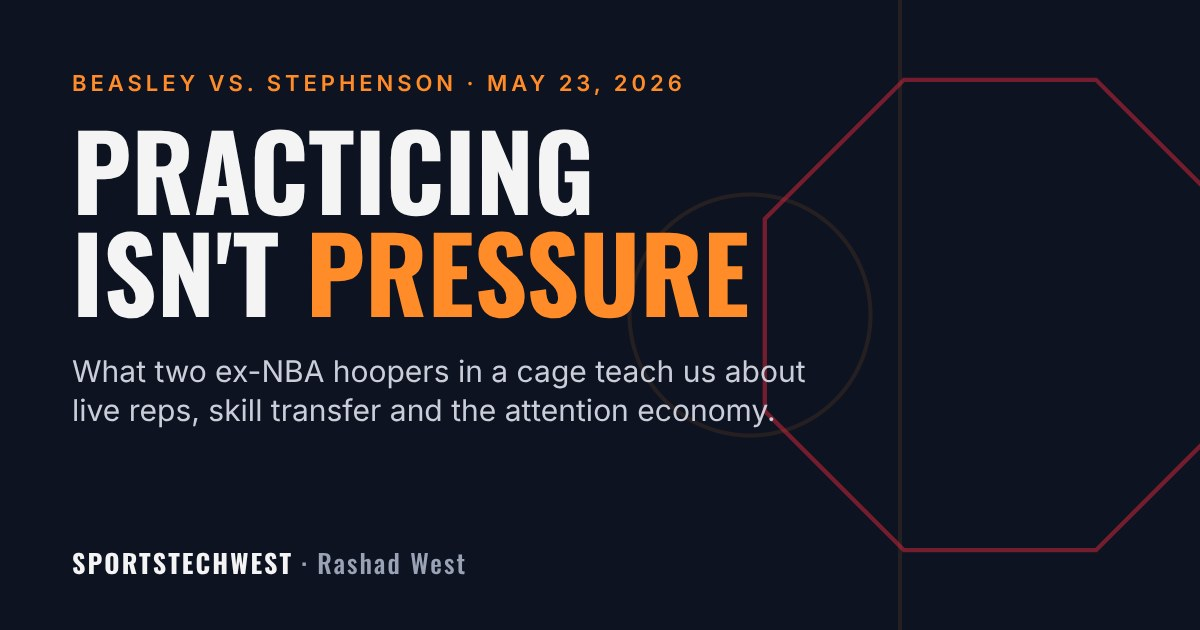
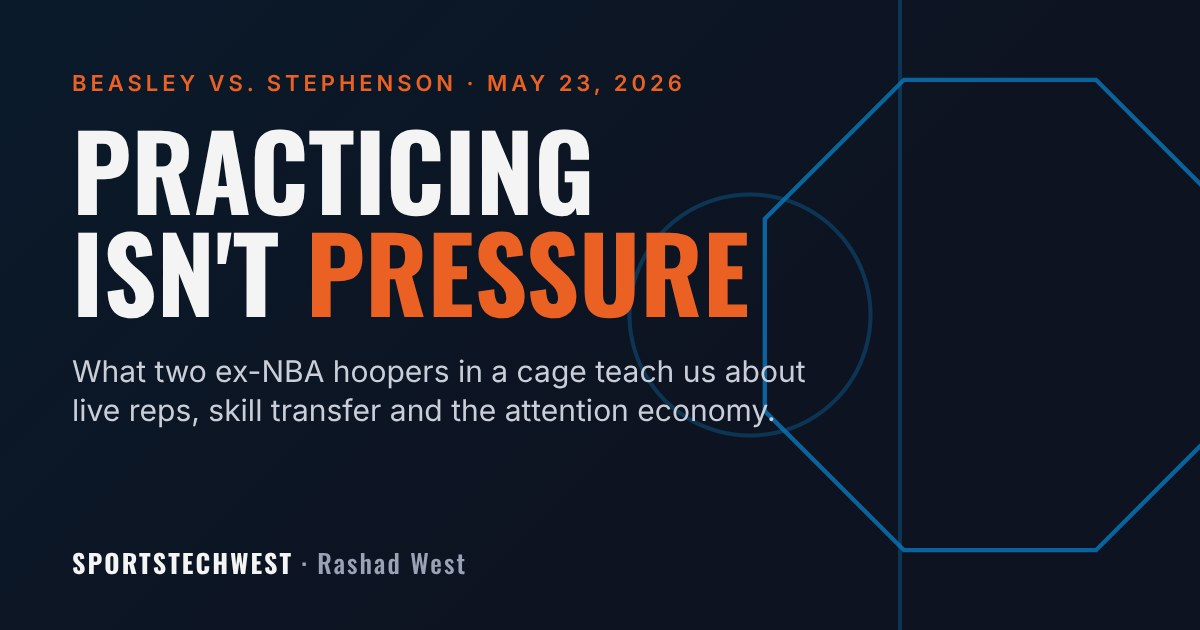
Run Thanos review on the Beasley vs. Stephenson post
AIMCODE: add six verified peer-reviewed citations woven into the
lessons, a new section on pressure and choking, and a measurable
Pressure Gap drill (Practice % minus Pressure %).
Garvis: inline hero with alt text, hero recolored to brand blue and
orange, validator and markdown render checks pass.
Launch: add a launch kit with LinkedIn, X, Instagram and newsletter
copy plus a posting plan (workflows/ is excluded from the site).

Claude-Session: https://claude.ai/code/session_01JRezRmpN3p3mQmtARAPsCa

diff --git a/_posts/2026-11-09-Practicing-Is-Not-Pressure-Beasley-vs-Stephenson.md b/_posts/2026-11-09-Practicing-Is-Not-Pressure-Beasley-vs-Stephenson.md
@@ -1,17 +1,21 @@
 ---
 layout: post
 title: "Practicing Isn't Pressure: What Beasley vs. Stephenson Taught Me About Live Reps"
-description: "Lance Stephenson submitted Michael Beasley inside the first round of their May 2026 MMA fight. Strip away the spectacle and it is a lesson on skill transfer, live reps, and why ex-NBA players are chasing the attention economy."
+description: "Lance Stephenson submitted Michael Beasley in the first round of their May 2026 MMA fight. Strip away the spectacle and the research tells a clear story about live reps, skill transfer, and the attention economy."
 permalink: /blog/practicing-is-not-pressure-beasley-vs-stephenson/
 thumbnail: "/assets/images/blog-img/beasley-stephenson-practice-pressure-hero.jpg"
 badge_color: "text-bg-primary"
 trending: true
 simple_nav: true
 date: 2026-11-09
-tags: [basketball, NBA, MMA, BIG3, player-development, creator-economy, sportstechwest]
+tags: [basketball, NBA, MMA, BIG3, player-development, sport-science, creator-economy, sportstechwest]
 categories: [Insights]
 author: "Rashad West"
 ---
+
+<div class="text-center my-4">
+  <img src="/assets/images/blog-img/beasley-stephenson-practice-pressure-hero.jpg" alt="Practicing isn't pressure: what Michael Beasley vs. Lance Stephenson teaches about live reps, skill transfer and the attention economy" class="img-fluid" width="1200" height="630">
+</div>
 
 ## Two Hoopers Walk Into a Cage
 
@@ -25,7 +29,7 @@ Afterward, Beasley gave the most honest postgame quote I have heard all year:
 
 And Stephenson gave the most Lance quote possible, pointing back to their basketball history: [*"You can beat me in 1v1, but you wanna fight me?"*](https://x.com/Ballislife/status/2058512397984211428)
 
-Most people watched it as a meme. I watched it as a coach and a data guy. That one Beasley line is a whole player development philosophy.
+Most people watched it as a meme. I watched it as a coach and a data guy. That one Beasley line is a whole player development philosophy, and the sport science backs him up.
 
 ---
 
@@ -34,6 +38,8 @@ Most people watched it as a meme. I watched it as a coach and a data guy. That o
 Beasley was not lying about training. He said he had practiced defending chokes. The problem is that a drill and a fight produce two different kinds of information.
 
 In a drill, your partner gives you the look. In a fight, someone is actively trying to take the thing you are trying to protect. Same technique on paper, completely different decision under load: heart rate up, adrenaline dumping, a real opponent reading *you*.
+
+Researchers have a name for this. **Representative learning design** says practice only transfers to performance when the practice environment keeps the key information and pressures of the real competition (Pinder, Davids, Renshaw & Araújo, 2011). Take away the live opponent and you are training a different skill than the one you will need.
 
 Basketball has the exact same gap:
 
@@ -46,33 +52,45 @@ Basketball has the exact same gap:
 
 I wrote about this in [Measurement Does Not Mean Understanding](/blog/Measurement-Does-Not-Mean-Understanding-Part-1/). A number collected in a sterile environment can be accurate and still tell you almost nothing about performance under pressure. The rep count was real. The context was missing.
 
-**The takeaway for coaches:** if you want a skill to hold up in games, a meaningful share of the reps have to come against live, thinking resistance. Constraint-based drills, small-sided games, advantage/disadvantage situations. Make the practice environment ask the same questions the game will ask.
+---
+
+## Lesson 2: Pressure Changes How Skill Works
+
+Here is the part most people miss. Pressure does not just add nerves on top of a skill. It can change how the skill runs.
+
+Beilock and Carr (2001) studied why skilled performers choke. Well-learned skills run mostly on autopilot. Under pressure, people start consciously monitoring each step, and that step-by-step attention can break down a skill that normally runs smoothly. That is what "thinking too much" actually means.
+
+The good news: pressure can be trained. Oudejans and Pijpers (2009) found that skilled athletes who practiced under anxiety-inducing conditions held up better under pressure than those who practiced without it. You do not get comfortable with pressure by avoiding it until game day. You get comfortable by bringing small doses of it into practice.
+
+Beasley's line is the athlete's version of that research. Practicing a defense against a cooperative partner is not the same as defending it while your body is screaming at you.
 
 ---
 
-## Lesson 2: Athleticism Transfers. Skill Does Not.
+## Lesson 3: Athleticism Transfers. Skill Does Not.
 
 Beasley was the No. 2 pick in the 2008 draft. Stephenson built a career on strength, toughness, and getting under people's skin. Both are elite athletes by any normal standard.
 
 None of that decided the fight. Position did.
 
-That is the part people miss when they say a great athlete can "just pick up" another sport. Raw athletic traits (speed, power, body control) carry over. Sport-specific skill (where your hips go when someone is on your back, how to clear a grip) does not carry over at all. It has to be built from scratch, and it has to be built under resistance.
+That is the part people miss when they say a great athlete can "just pick up" another sport. Research on motor learning shows that transfer between sports depends on how similar the tasks are: the movements, what you have to see, and the decisions you have to make (Rosalie & Müller, 2012). Speed, power and body control carry over. Where your hips go when someone is on your back does not. It has to be built from scratch, under resistance.
 
-Even Beasley's game plan showed a basketball brain at work. Going for the guillotine was the aggressive, "take the shot" option. In grappling, that same choice gave up his position the moment it failed. On the court, a missed shot means you get back on defense. In the cage, a missed submission means your opponent is on your back.
+Even Beasley's choice showed a basketball brain at work. Going for the guillotine was the aggressive, "take the shot" option. On the court, a missed shot means you get back on defense. In the cage, a missed submission means your opponent is on your back.
 
-This matters for youth sports too. Multi-sport kids build a better athletic base, and that is real. But we should be honest that every new sport resets the skill clock. The base gets you to the starting line faster. It does not skip the reps.
+This matters for youth sports too. Sampling several sports in childhood is linked to longer participation and a strong base for elite performance later (Côté, Lidor & Hackfort, 2009). That is real. But every new sport still resets the skill clock. The base gets you to the starting line faster. It does not skip the reps.
 
 ---
 
-## Lesson 3: The Name of the Promotion Was the Point
+## Lesson 4: The Name of the Promotion Was the Point
 
 The event series is literally called **Brand Risk**. That is not an accident. It is the business model.
 
 Ex-NBA players have something the creator economy wants: name recognition, built-in fan bases, and decades of highlight clips. Streaming promotions have something those players want: a live audience, a payday, and a reason to trend again. A one-minute fight between two former pros generates more clips, reactions, and debate than most full BIG3 games.
 
+Sport management research has been pointing at this for years. An athlete's brand is not only athletic performance. It also includes how they look and how they live off the court, and those pieces carry value of their own (Arai, Ko & Ross, 2014). Fighting on a stream is a bet on the off-court side of the brand.
+
 The price is the "risk" part. You are trading your athletic reputation for attention, live, with no edit button. Beasley lost the fight, but the clip still did numbers, and he immediately pitched a boxing rematch. In the attention economy, losing on camera is often still a win on the spreadsheet.
 
-That is the same tension I wrote about in [Where Does the Value Actually Live?](/blog/Where-Does-the-Value-Actually-Live-Part-2/): the value of an athlete is no longer just what happens between the lines. It is the story, the audience, and the moment. Former players who understand that are building second careers. The ones who do not understand it are just providing content for someone else's platform.
+That is the same tension I wrote about in [Where Does the Value Actually Live?](/blog/Where-Does-the-Value-Actually-Live-Part-2/): the value of an athlete is no longer just what happens between the lines. Former players who understand that are building second careers. The ones who do not are just providing content for someone else's platform.
 
 ---
 
@@ -86,14 +104,43 @@ So the same two players went from fighting each other for a promotion that sells
 
 ---
 
+## Try It This Week: Measure Your Pressure Gap
+
+This is where basketball becomes math. Pick one skill and measure it two ways:
+
+1. **Practice number:** 20 free throws at the start of practice, fresh and quiet. Write down the makes.
+2. **Pressure number:** 20 free throws after a hard conditioning block, one at a time, with a consequence on every miss (the team runs, or you lose a point in a scrimmage). Write down the makes.
+
+Then do the math:
+
+**Pressure Gap = Practice % − Pressure %**
+
+If you make 16 of 20 in practice (80%) and 12 of 20 under pressure (60%), your Pressure Gap is 20 points. That number is more useful than either percentage on its own. It tells you how much of your skill survives when it matters.
+
+Run it once a week for a month. If the gap is shrinking, your practice is starting to look like the game. If it is not, add more live resistance to your practice, not more reps of the same drill.
+
+---
+
 ## What I Am Taking From It
 
 1. **Train against live resistance.** Your drill numbers are the floor, not the forecast.
-2. **Respect the skill clock.** Athleticism buys speed of learning, not a shortcut past the reps.
-3. **Know which game you are playing.** The attention economy rewards things the scoreboard punishes. Be intentional about which one you are building for.
+2. **Bring pressure into practice.** Small doses now beat a big dose on game day.
+3. **Respect the skill clock.** Athleticism buys speed of learning, not a shortcut past the reps.
+4. **Know which game you are playing.** The attention economy rewards things the scoreboard punishes. Be intentional about which one you are building for.
 
 Beasley said it better than any coaching clinic could. Practicing getting choked and getting choked ain't the same. Build your practice so the game never feels like the first time.
 
 ---
 
-*Sources: [Tapology](https://www.tapology.com/fightcenter/bouts/1136143-brandrisk-promotions-14-michael-beasley-vs-lance-stephenson), [Bloody Elbow](https://bloodyelbow.com/2026/05/24/michael-beasley-vs-lance-stephenson-fight-result-brand-risk-promotions-mma-fight-ends-in-shock-submission/), [Yahoo Sports](https://sports.yahoo.com/articles/brand-risk-14-live-blog-070440618.html), [ClutchPoints](https://clutchpoints.com/nba/lance-stephenson-choking-out-michael-beasley-in-mma-fight-is-craziest-thing-youll-see-today), [Larry Brown Sports](https://larrybrownsports.com/basketball/lance-stephenson-michael-beasley-suspended-big3/759023), [BIG3](https://x.com/thebig3/status/2068462888789193082).*
+## Research
+
+- Arai, A., Ko, Y. J., & Ross, S. (2014). Branding athletes: Exploration and conceptualization of athlete brand image. *Sport Management Review, 17*(2), 97–106. [doi:10.1016/j.smr.2013.04.003](https://doi.org/10.1016/j.smr.2013.04.003)
+- Beilock, S. L., & Carr, T. H. (2001). On the fragility of skilled performance: What governs choking under pressure? *Journal of Experimental Psychology: General, 130*(4), 701–725.
+- Côté, J., Lidor, R., & Hackfort, D. (2009). ISSP position stand: To sample or to specialize? Seven postulates about youth sport activities that lead to continued participation and elite performance. *International Journal of Sport and Exercise Psychology, 7*(1), 7–17.
+- Oudejans, R. R. D., & Pijpers, J. R. (2009). Training with anxiety has a positive effect on expert perceptual-motor performance under pressure. *Quarterly Journal of Experimental Psychology, 62*(8), 1631–1647.
+- Pinder, R. A., Davids, K., Renshaw, I., & Araújo, D. (2011). Representative learning design and functionality of research and practice in sport. *Journal of Sport & Exercise Psychology, 33*(1), 146–155. [doi:10.1123/jsep.33.1.146](https://doi.org/10.1123/jsep.33.1.146)
+- Rosalie, S. M., & Müller, S. (2012). A model for the transfer of perceptual-motor skill learning in human behaviors. *Research Quarterly for Exercise and Sport, 83*(3), 413–421.
+
+## News Sources
+
+[Tapology](https://www.tapology.com/fightcenter/bouts/1136143-brandrisk-promotions-14-michael-beasley-vs-lance-stephenson), [Bloody Elbow](https://bloodyelbow.com/2026/05/24/michael-beasley-vs-lance-stephenson-fight-result-brand-risk-promotions-mma-fight-ends-in-shock-submission/), [Yahoo Sports](https://sports.yahoo.com/articles/brand-risk-14-live-blog-070440618.html), [ClutchPoints](https://clutchpoints.com/nba/lance-stephenson-choking-out-michael-beasley-in-mma-fight-is-craziest-thing-youll-see-today), [Larry Brown Sports](https://larrybrownsports.com/basketball/lance-stephenson-michael-beasley-suspended-big3/759023), [BIG3](https://x.com/thebig3/status/2068462888789193082).

diff --git a/workflows/blog-launch/2026-11-09-beasley-stephenson-launch-kit.md b/workflows/blog-launch/2026-11-09-beasley-stephenson-launch-kit.md
@@ -1,0 +1,107 @@
+# Launch Kit: "Practicing Isn't Pressure" (Beasley vs. Stephenson)
+
+**Post:** `_posts/2026-11-09-Practicing-Is-Not-Pressure-Beasley-vs-Stephenson.md`
+**Live URL (after merge to main):** https://sportstechwest.com/blog/practicing-is-not-pressure-beasley-vs-stephenson/
+**Hero / social image:** `assets/images/blog-img/beasley-stephenson-practice-pressure-hero.jpg` (1200x630, works as the OG image)
+
+---
+
+## Thanos Review (AIMCODE + Garvis + Launch)
+
+### @AIMCODE: content quality
+
+| Check | Status | Notes |
+|---|---|---|
+| **C** Clarity | Pass | One clear thesis: practice reps and pressure reps are different data. |
+| **L** Logic | Pass | Story > 4 lessons > epilogue > drill > takeaways. Each lesson builds on the last (Alpha Evolve layering). |
+| **E** Examples | Pass | The fight itself, practice-vs-game table, BIG3 epilogue, worked Pressure Gap example. |
+| **A** Adaptation | Pass | Lessons apply to coaches, players, youth/multi-sport parents, and athletes building a brand. |
+| **R** Results | Pass | "Pressure Gap" drill gives a measurable weekly number to track. |
+| Peer-reviewed research | Pass | 6 peer-reviewed citations, verified by search (Pinder et al. 2011; Beilock & Carr 2001; Oudejans & Pijpers 2009; Rosalie & Müller 2012; Côté et al. 2009; Arai et al. 2014). |
+| Zhang (story-first) | Pass | Opens on the fight, not on theory. |
+| Drazan (basketball as math) | Pass | Pressure Gap = Practice % − Pressure %, with a worked example. |
+| Resnick (build something) | Pass | Reader runs their own drill and collects their own data. |
+| Jobs (simple) | Pass | Short sections, one table, one formula, four takeaways. |
+
+### @Garvis: technical checks
+
+| Check | Status |
+|---|---|
+| `node scripts/validate-post.js` | Pass |
+| Front matter (all required fields, valid category, date after latest post) | Pass |
+| Thumbnail + inline image exist, alt text present | Pass |
+| Markdown renders (kramdown GFM): 1 table, 10 sections, 15 links, 0 warnings | Pass |
+| No em dashes | Pass |
+| Internal links match existing post URLs | Pass |
+| Full Jekyll site build | Not run locally (sandbox Ruby setup broken). Runs in CI on the PR (`blog-validate.yml`) and on merge (`jekyll.yml`). |
+
+### @Launch: distribution
+
+Copy below. Post after the page is live and you have clicked the URL yourself.
+
+---
+
+## LinkedIn
+
+> "Practicing getting choked and getting choked ain't the same."
+>
+> Michael Beasley said that after Lance Stephenson submitted him in the first round of their MMA fight in May.
+>
+> Most people saw a meme. I saw a player development lesson.
+>
+> Sport science has been saying this for years:
+> • Practice only transfers when it looks like competition (Pinder et al., 2011)
+> • Pressure changes how a skill runs, not just how you feel (Beilock & Carr, 2001)
+> • Athletes who train with pressure hold up better under it (Oudejans & Pijpers, 2009)
+>
+> I broke it down, plus a simple drill to measure your own "Pressure Gap":
+> Practice % − Pressure % = how much of your skill survives when it matters.
+>
+> Full post: https://sportstechwest.com/blog/practicing-is-not-pressure-beasley-vs-stephenson/
+>
+> #PlayerDevelopment #SportsScience #Basketball #Coaching #SportsAnalytics
+
+## X / Threads
+
+**Single post:**
+> Beasley after Lance choked him out: "Practicing getting choked and getting choked ain't the same."
+>
+> That's the best player development quote of 2026. Here's the science behind it, plus a drill to measure your Pressure Gap 👇
+> https://sportstechwest.com/blog/practicing-is-not-pressure-beasley-vs-stephenson/
+
+**Thread (optional):**
+1. Lance Stephenson vs. Michael Beasley wasn't just a viral clip. It was a lesson on how skill actually works. 🧵
+2. Beasley practiced defending chokes. Didn't matter. A drill against a cooperative partner and a live opponent are different data.
+3. Research calls it representative learning design: practice only transfers if it keeps the real pressures of competition.
+4. Pressure also changes HOW skill runs. Under stress we start monitoring every step, and smooth skills break down. That's choking.
+5. The fix: bring small doses of pressure into practice. Athletes who train under anxiety hold up better under pressure.
+6. Try it: 20 FTs fresh vs. 20 FTs tired with a consequence on every miss. Practice % − Pressure % = your Pressure Gap. Track it weekly.
+7. Full breakdown, plus the BIG3 epilogue and the attention-economy angle: https://sportstechwest.com/blog/practicing-is-not-pressure-beasley-vs-stephenson/
+
+## Instagram (carousel caption)
+
+> Practicing isn't pressure. 🏀🥋
+>
+> Beasley vs. Stephenson taught a lesson every hooper needs:
+> drill reps ≠ game reps.
+>
+> Swipe for the Pressure Gap drill 👉 then hit the link in bio for the full breakdown + research.
+>
+> #basketball #playerdevelopment #sportsscience #hoops #coaching #basketballtraining
+
+**Carousel slides:** (1) hero image, (2) the Beasley quote, (3) practice vs. game table, (4) Pressure Gap formula + worked example, (5) 4 takeaways, (6) "Link in bio".
+
+## Newsletter blurb
+
+> **Practicing isn't pressure.** When Lance Stephenson choked out Michael Beasley in May, Beasley summed up a decade of sport science in one line. I break down the research on live reps, choking, and skill transfer, and give you a 20-minute drill to measure your own Pressure Gap. [Read it →](https://sportstechwest.com/blog/practicing-is-not-pressure-beasley-vs-stephenson/)
+
+---
+
+## Posting plan
+
+1. Merge the PR so the post is live. Confirm the page loads and the image shows.
+2. Day 1: LinkedIn post (weekday morning) + X single post.
+3. Day 2: X thread.
+4. Day 3: Instagram carousel.
+5. Next newsletter: blurb above.
+6. One week later: check post views and clicks in analytics and note which channel drove the most traffic (BML: measure > learn).
